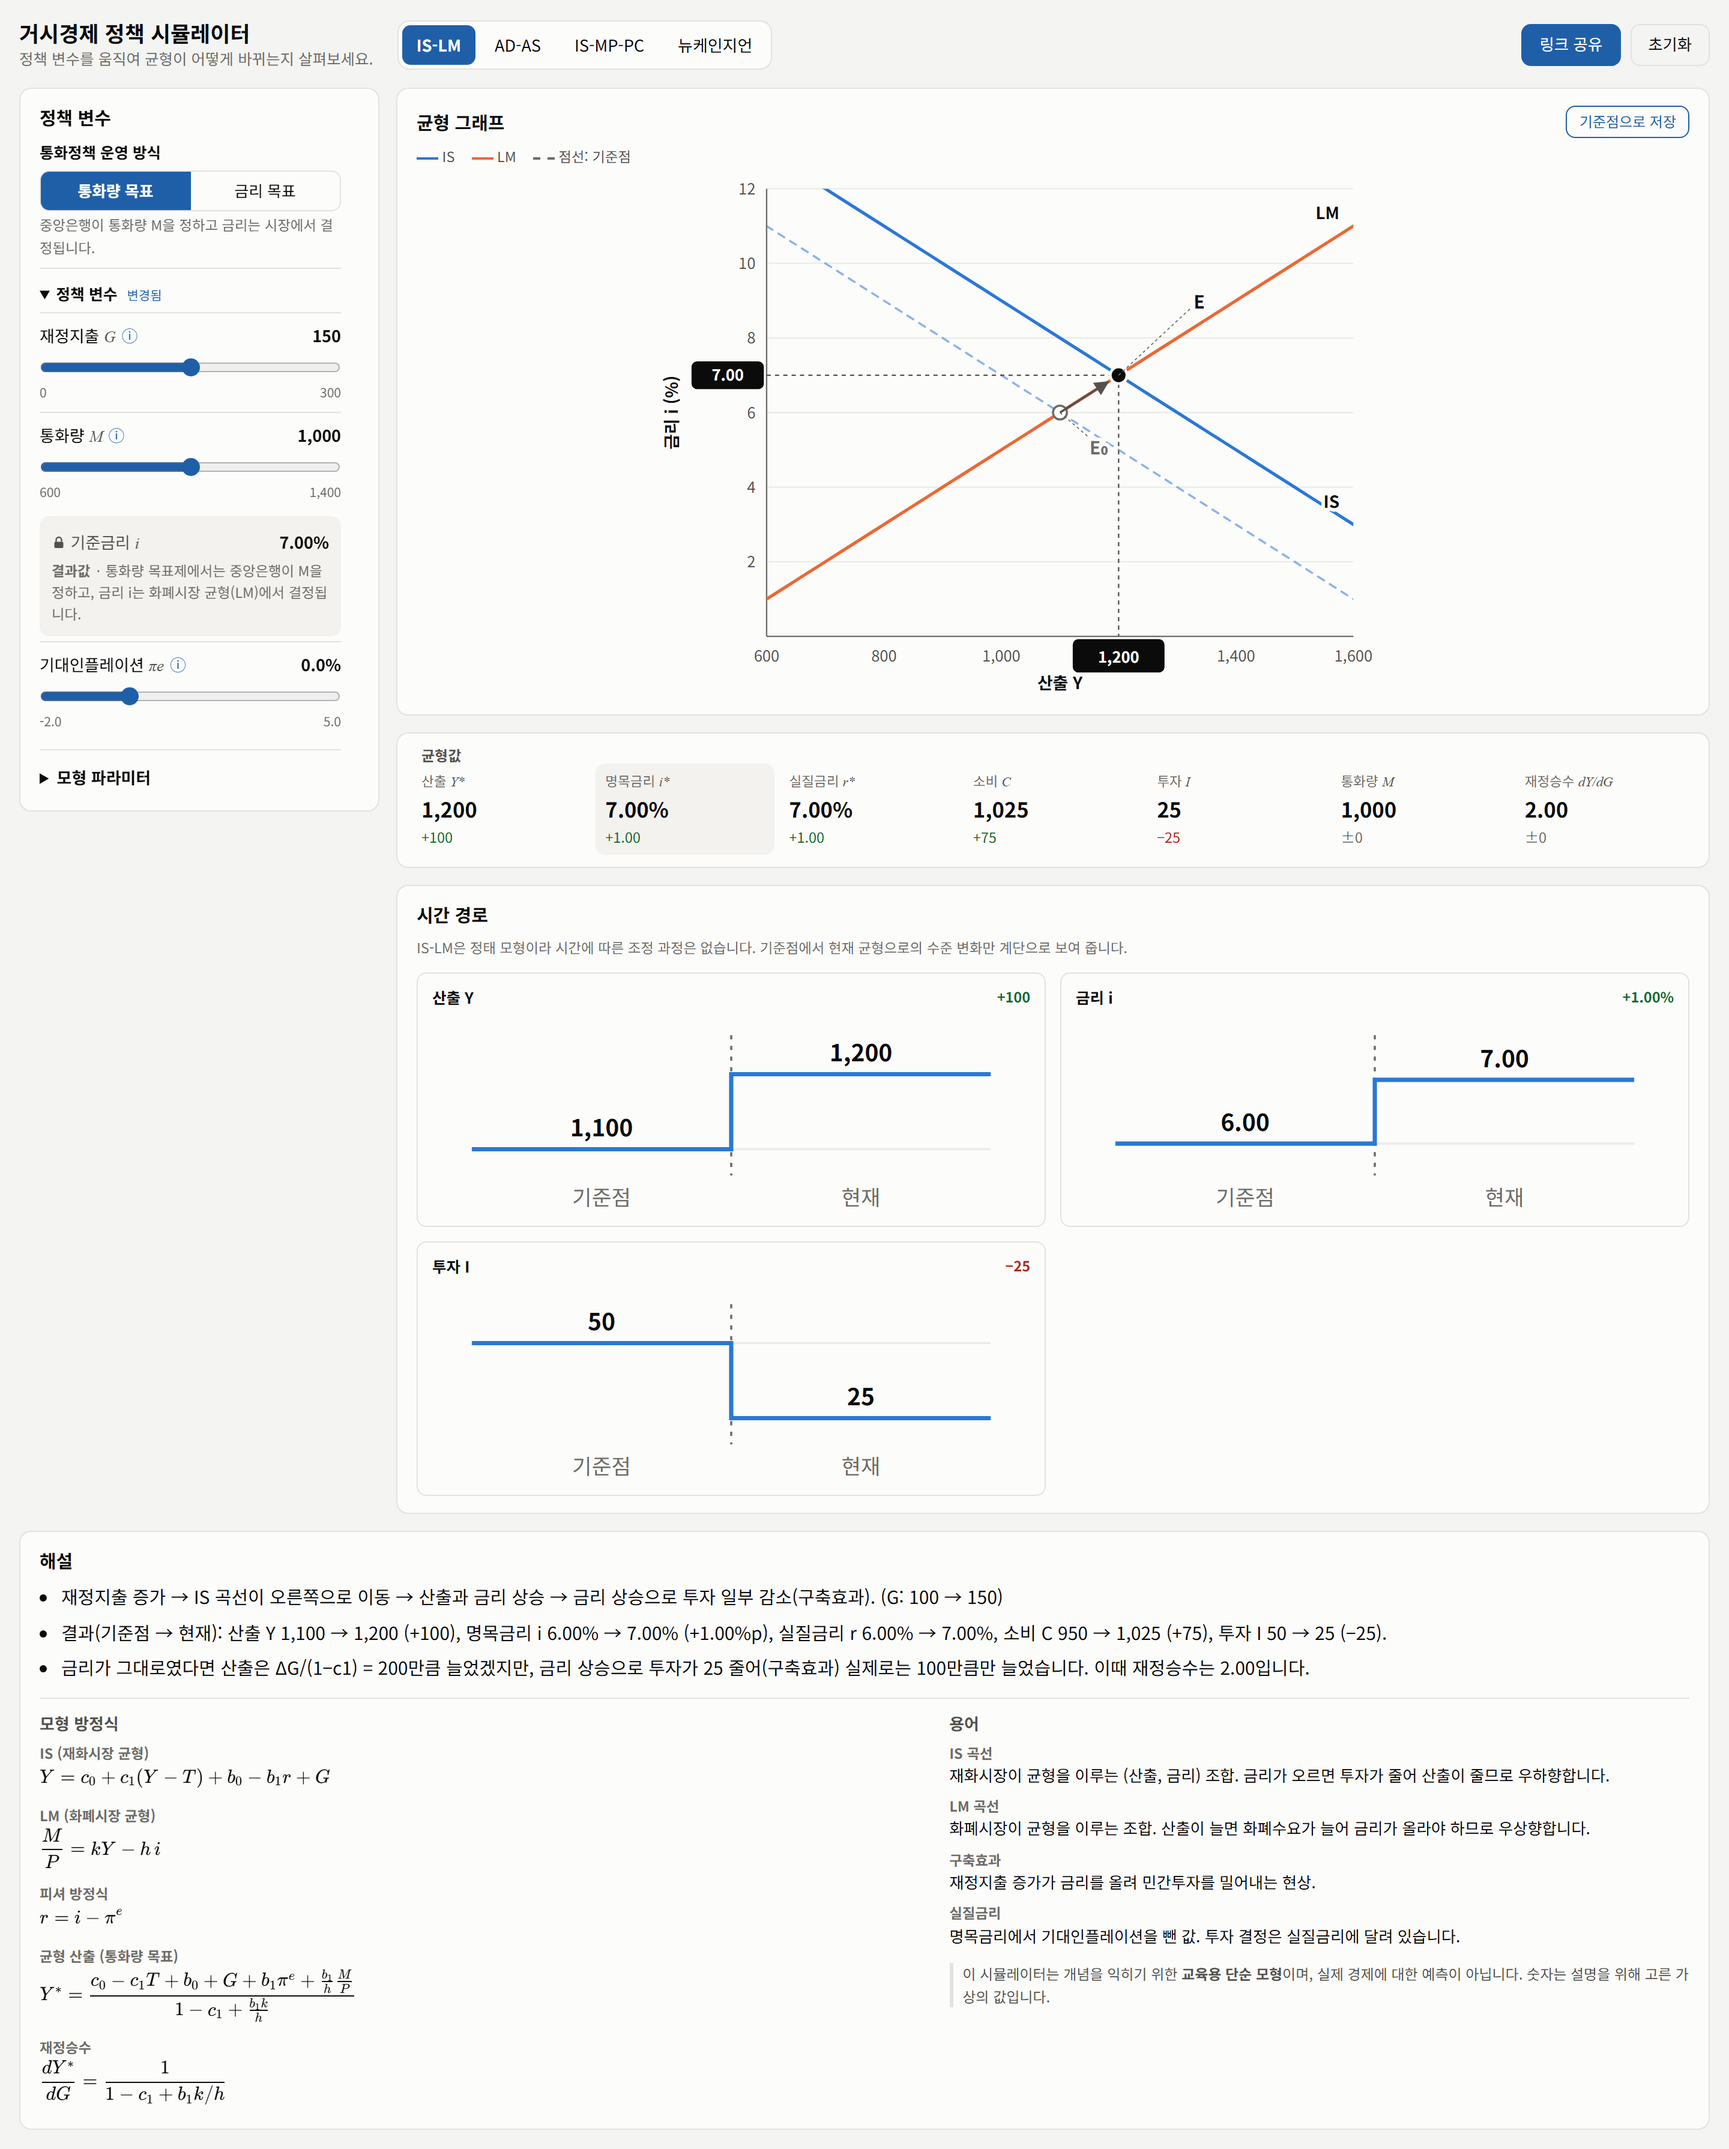
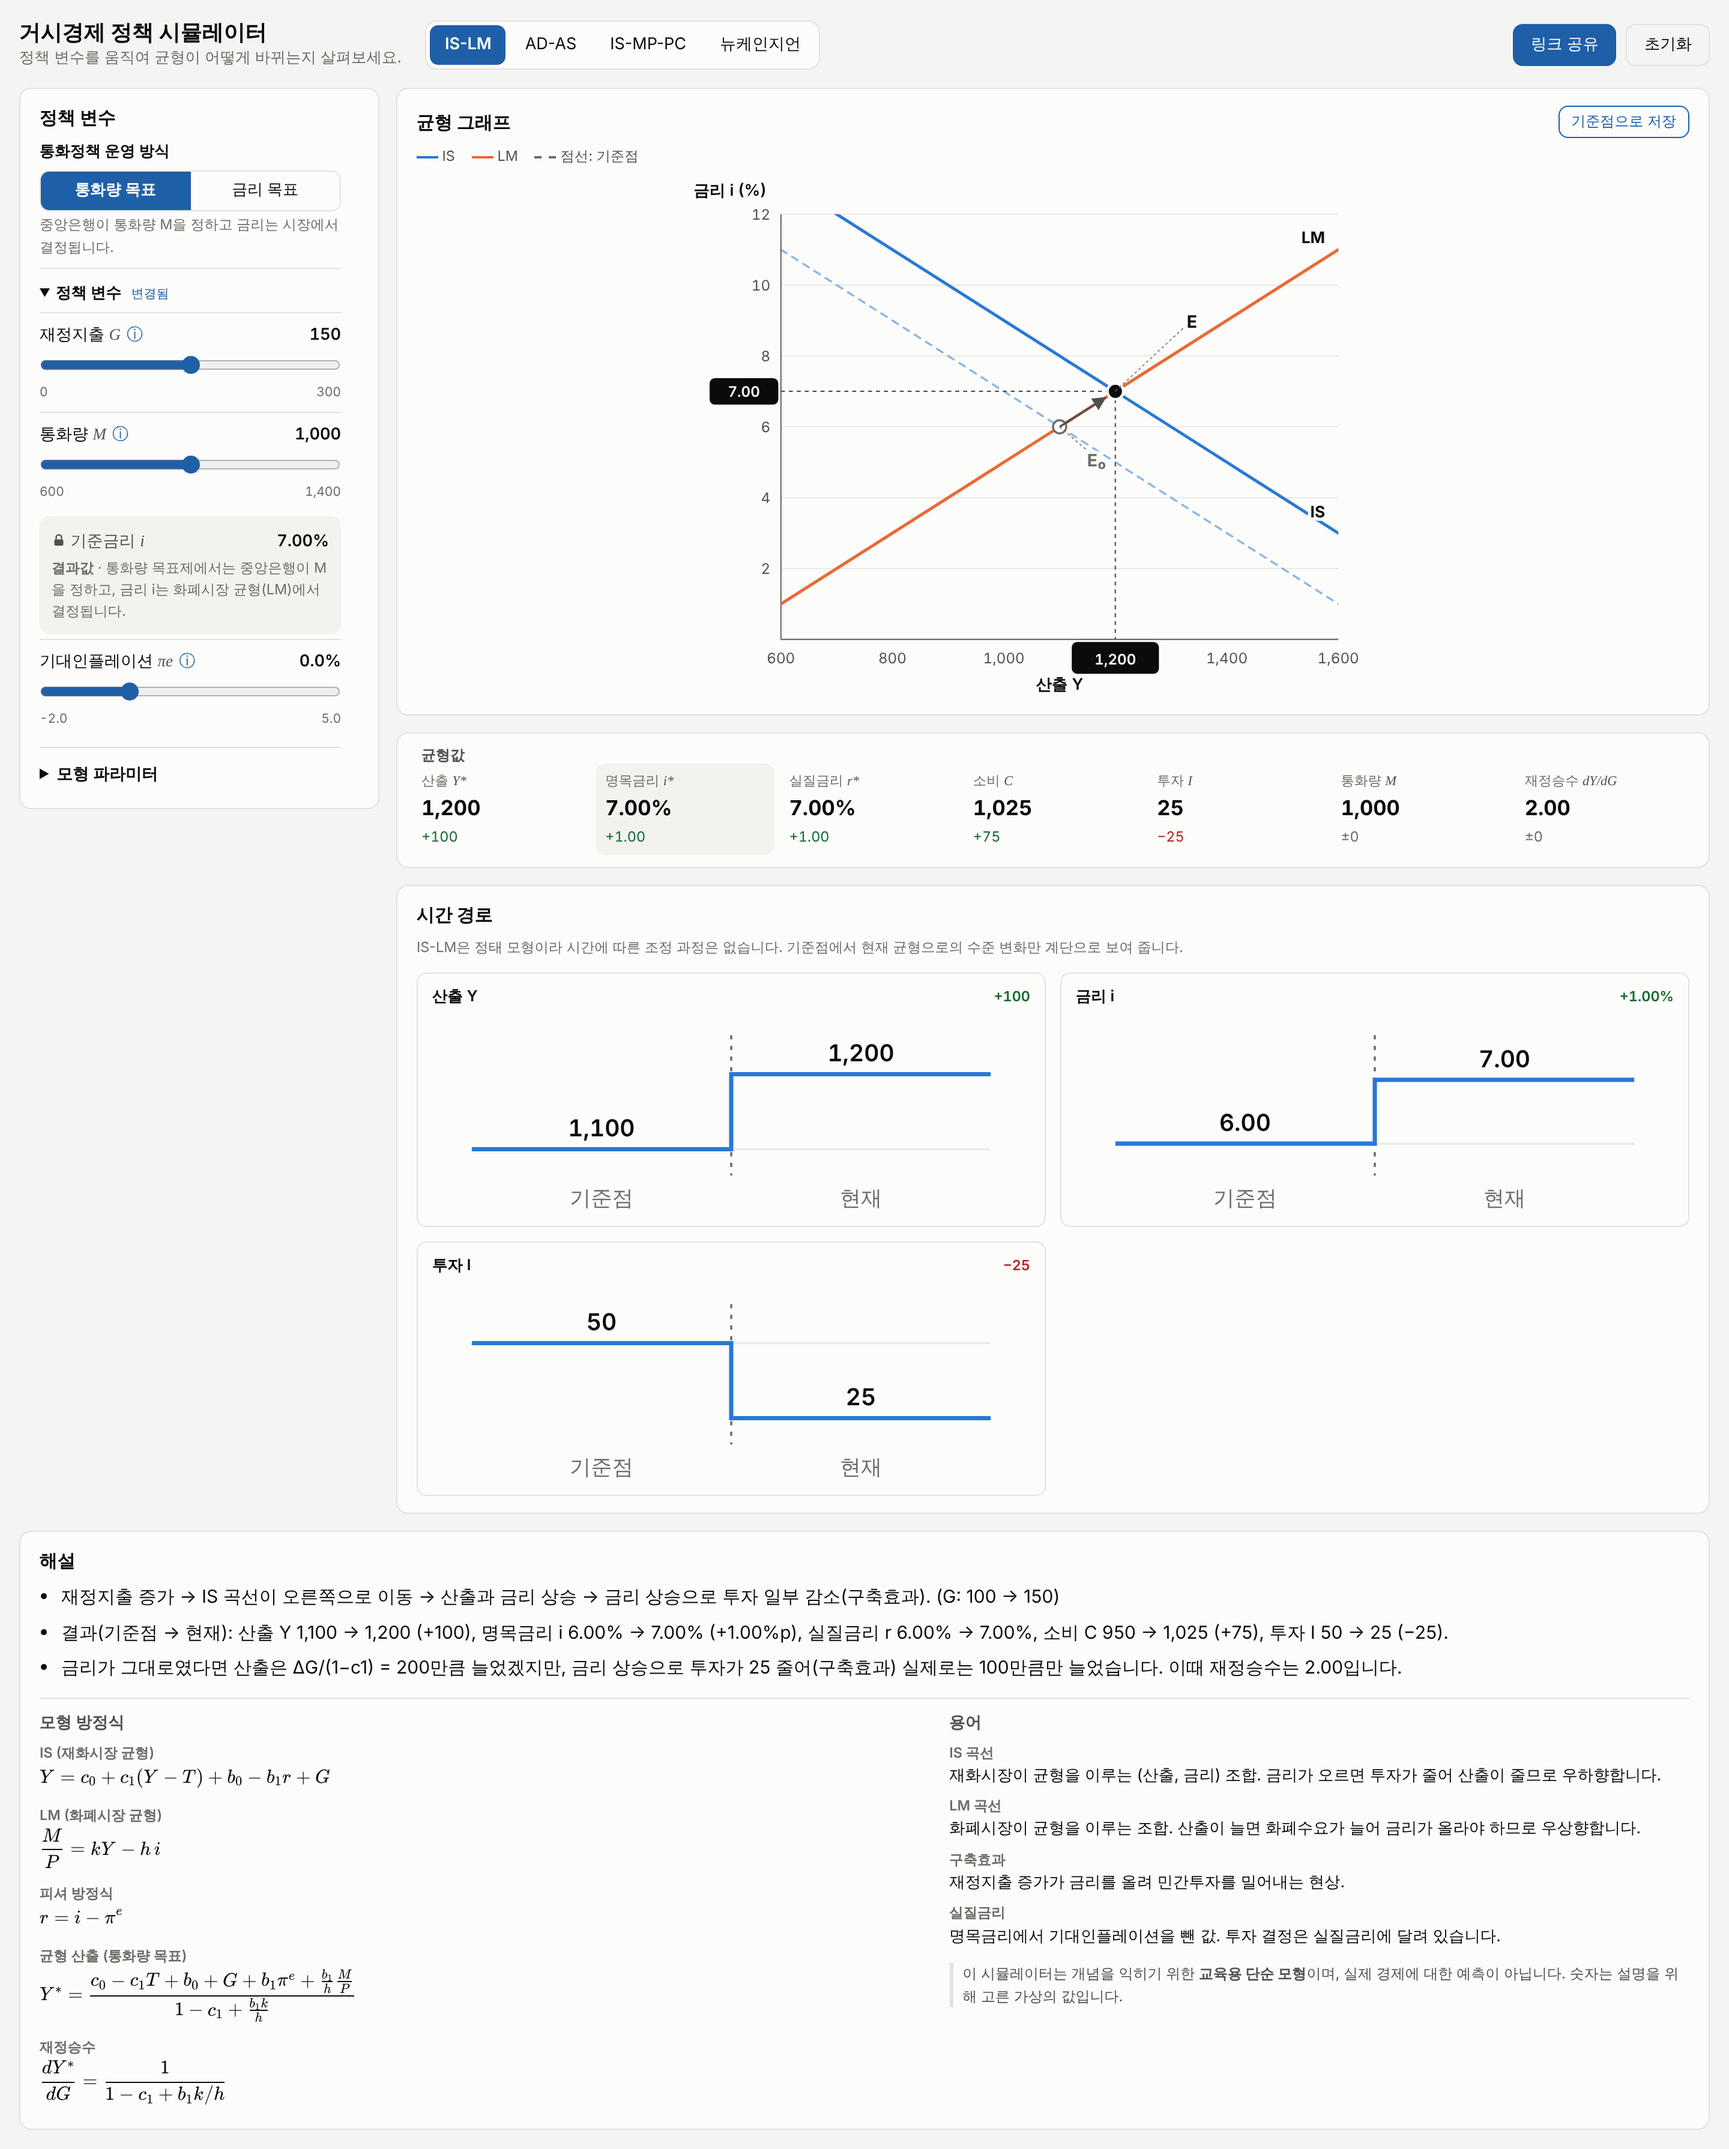
Keep the control panel out of the explanation and set the y-axis title horizontally
The sticky control panel was itself the grid item, so it kept following
the scroll into the full-width explanation row and covered it. It now
sticks inside a slot that spans only its own row.

The y-axis title sat rotated beside the axis; it is now horizontal above
the axis. The chart is 20 units taller so the plot keeps its height.

Smoke checks both, and its plot bounds follow the new top margin.

Claude-Session: https://claude.ai/code/session_01C8cN38BLcugmzUaUpX3oDT

diff --git a/src/ui/App.tsx b/src/ui/App.tsx
@@ -103,15 +103,18 @@ export default function App() {
         </div>
       )}
       <main className="layout">
-        <ControlPanel
-          key={model.id}
-          model={model}
-          regime={state.regime}
-          values={state.values}
-          solution={view.current}
-          onSet={(key, value) => dispatch({ type: 'set', key, value })}
-          onRegime={(regime) => dispatch({ type: 'regime', regime })}
-        />
+        {/* The slot is the grid item; the panel sticks inside it, so it stops at the end of the row. */}
+        <div className="controls-slot">
+          <ControlPanel
+            key={model.id}
+            model={model}
+            regime={state.regime}
+            values={state.values}
+            solution={view.current}
+            onSet={(key, value) => dispatch({ type: 'set', key, value })}
+            onRegime={(regime) => dispatch({ type: 'regime', regime })}
+          />
+        </div>
         <div className="center">
           <EquilibriumGraph
             title={model.name}

diff --git a/src/ui/EquilibriumGraph.tsx b/src/ui/EquilibriumGraph.tsx
@@ -21,8 +21,8 @@ interface Props {
 }
 
 const W = 560
-const H = 380
-const M = { l: 74, r: 64, t: 14, b: 44 }
+const H = 400
+const M = { l: 74, r: 64, t: 34, b: 44 }
 
 const TONE_CLASS = { primary: 'curve-is', secondary: 'curve-lm', reference: 'curve-ref' } as const
 
@@ -236,7 +236,8 @@ export function EquilibriumGraph({ title, axes, xDomain, yDomain, current, basel
           <text className="axis-title" x={(M.l + W - M.r) / 2} y={H - 6} textAnchor="middle">
             {axes.x.label}
           </text>
-          <text className="axis-title" transform={`translate(10 ${(M.t + H - M.b) / 2}) rotate(-90)`} textAnchor="middle">
+          {/* horizontal, above the axis: easier to read than a rotated title */}
+          <text className="axis-title" x={8} y={M.t - 14} textAnchor="start">
             {axes.y.label}
             {axes.y.unit ? ` (${axes.y.unit})` : ''}
           </text>

diff --git a/src/index.css b/src/index.css
@@ -220,8 +220,12 @@ summary:focus-visible {
   align-items: start;
 }
 
-.controls {
+.controls-slot {
   grid-area: controls;
+  align-self: stretch;
+  min-width: 0;
+}
+.controls {
   position: sticky;
   top: 14px;
   max-height: calc(100dvh - 28px);
